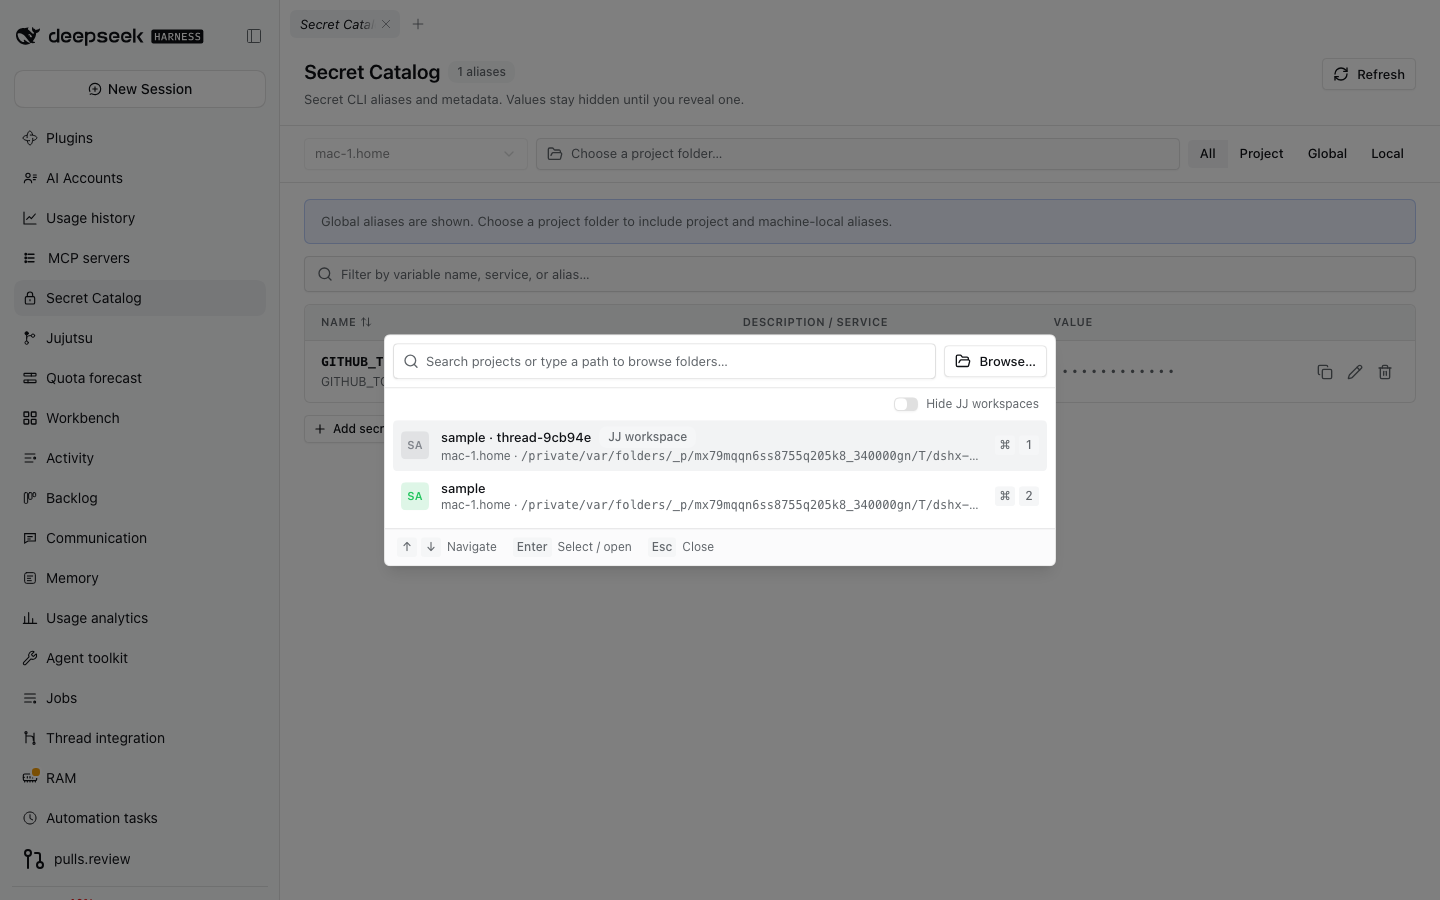
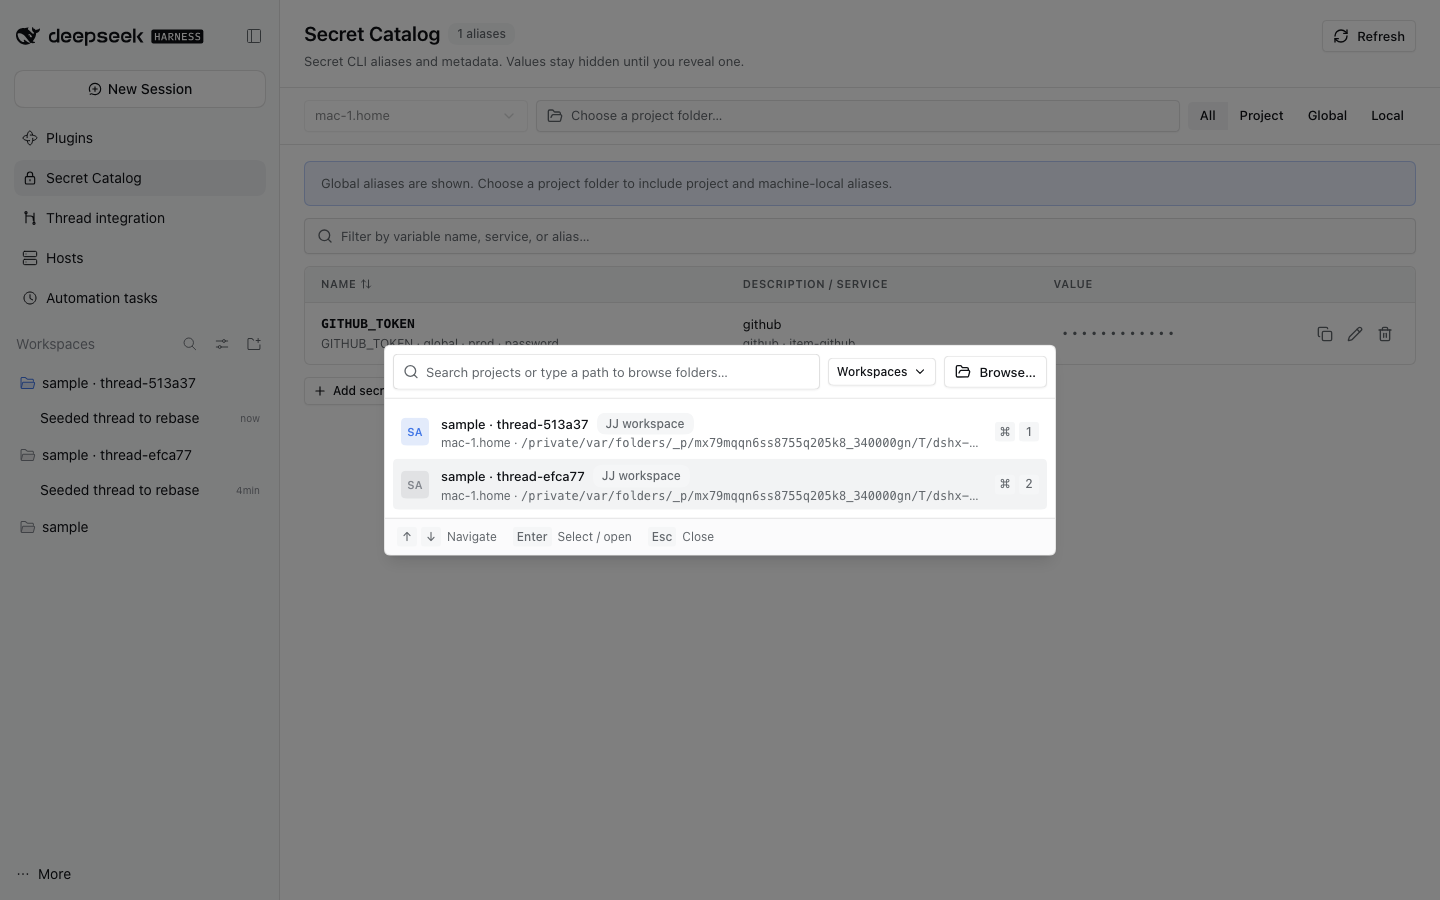
feat(project-folder-picker): compact scope and optimize result lookup
Move Everything, Projects, Recents, and Workspaces into a compact scope menu while keeping Projects as the default. Replace repeated quadratic row/path lookups with linear-time indexes. Preserve the folder-only caller's accessible dialog name by wiring its heading to the shared picker.

diff --git a/plugins/@dshfiles/project-folder-picker/src/project-folder-picker.tsx b/plugins/@dshfiles/project-folder-picker/src/project-folder-picker.tsx
@@ -2,10 +2,16 @@ import { Alert, AlertDescription } from '@dshfiles/plugin-ui/components/ui/alert
 import { Badge } from '@dshfiles/plugin-ui/components/ui/badge'
 import { Button } from '@dshfiles/plugin-ui/components/ui/button'
 import { Dialog, DialogContent, DialogDescription, DialogTitle } from '@dshfiles/plugin-ui/components/ui/dialog'
+import {
+  DropdownMenu,
+  DropdownMenuContent,
+  DropdownMenuRadioGroup,
+  DropdownMenuRadioItem,
+  DropdownMenuTrigger,
+} from '@dshfiles/plugin-ui/components/ui/dropdown-menu'
 import { Input } from '@dshfiles/plugin-ui/components/ui/input'
 import { Kbd, KbdGroup } from '@dshfiles/plugin-ui/components/ui/kbd'
-import { Tabs, TabsList, TabsTrigger } from '@dshfiles/plugin-ui/components/ui/tabs'
-import { FolderIcon, FolderOpenIcon, HistoryIcon, SearchIcon } from '@dshfiles/plugin-ui/icons'
+import { ChevronDownIcon, FolderIcon, FolderOpenIcon, HistoryIcon, SearchIcon } from '@dshfiles/plugin-ui/icons'
 import { cn } from '@dshfiles/plugin-ui/lib/utils'
 import { keepPreviousData, useMutation, useQuery } from '@dshfiles/plugin-ui/query'
 import { useCallback, useEffect, useMemo, useRef, useState, type KeyboardEvent } from 'react'
@@ -55,9 +61,9 @@ export interface ProjectFolderPickerProps {
    * caller that knows it rather than read here.
    */
   readonly machineName?: string
-  /** Recently chosen folders, newest first, for the Recents tab; a registered one shows as its project, another yields a directory selection. */
+  /** Recently chosen folders, newest first, for the Recents scope; a registered one shows as its project, another yields a directory selection. */
   readonly recentFolders?: readonly string[]
-  /** Tab shown on open; Projects by default, which leaves JJ thread workspaces to their own tab. */
+  /** Scope shown on open; Projects by default, which leaves JJ thread workspaces in their own scope. */
   readonly initialTab?: PickerTab
   /** Projects listed first on Everything and Projects, ahead of recents, under no heading. */
   readonly pinnedWorkspaceIds?: readonly string[]
@@ -122,6 +128,7 @@ export const ProjectFolderPicker = (props: ProjectFolderPickerProps): JSX.Elemen
     [props.projects, recentFolders, pinnedWorkspaceIds, query, tab],
   )
   const entries = useMemo(() => sections.flatMap(section => section.entries), [sections])
+  const entryIndices = useMemo(() => new Map(entries.map((entry, index) => [entry, index])), [entries])
   const tabs = useMemo(
     () => ProjectFolderPickerModel.availableTabs({ projects: props.projects, recentFolders, pinnedWorkspaceIds }),
     [props.projects, recentFolders, pinnedWorkspaceIds],
@@ -142,7 +149,8 @@ export const ProjectFolderPicker = (props: ProjectFolderPickerProps): JSX.Elemen
     pathMode && hasAbsolutePath && listing?.path !== absolutePath && (props.mode !== 'directories' || props.onUseAbsolutePath !== undefined)
   const showListingActions = listing !== null && (!ProjectFolderPickerModel.isPathQuery(query) || requestedPath === listing.path)
   const matchingFolderPaths = listing === null ? null : ProjectFolderPickerModel.matchingDirectoryPaths(listing, query)
-  const folderEntries = pathMode ? (listing?.entries.filter(entry => matchingFolderPaths === null || matchingFolderPaths.includes(entry.path)) ?? []) : []
+  const matchingFolderPathSet = matchingFolderPaths === null ? null : new Set(matchingFolderPaths)
+  const folderEntries = pathMode ? (listing?.entries.filter(entry => matchingFolderPathSet === null || matchingFolderPathSet.has(entry.path)) ?? []) : []
   const itemCount = pathMode ? folderEntries.length : entries.length
   const pickMutation = useMutation({
     mutationFn: () => {
@@ -346,6 +354,30 @@ export const ProjectFolderPicker = (props: ProjectFolderPickerProps): JSX.Elemen
               value={query}
             />
           </div>
+          {!pathMode && tabs.length > 2 && (
+            <DropdownMenu>
+              <DropdownMenuTrigger asChild>
+                <Button aria-label="Filter by scope" className="dshx:shrink-0" size="sm" type="button" variant="outline">
+                  {tabLabels[tab]}
+                  <ChevronDownIcon aria-hidden />
+                </Button>
+              </DropdownMenuTrigger>
+              <DropdownMenuContent align="end" className="dshx-root">
+                <DropdownMenuRadioGroup
+                  onValueChange={(value: string) => {
+                    if (ProjectFolderPickerModel.isPickerTab(value)) setTab(value)
+                  }}
+                  value={tab}
+                >
+                  {tabs.map(pickerTab => (
+                    <DropdownMenuRadioItem key={pickerTab} value={pickerTab}>
+                      {tabLabels[pickerTab]}
+                    </DropdownMenuRadioItem>
+                  ))}
+                </DropdownMenuRadioGroup>
+              </DropdownMenuContent>
+            </DropdownMenu>
+          )}
           {props.showNativePicker !== false && (
             <Button disabled={busy} onClick={() => chooseWithSystemPicker()} type="button" variant="outline">
               <FolderOpenIcon aria-hidden />
@@ -429,24 +461,6 @@ export const ProjectFolderPicker = (props: ProjectFolderPickerProps): JSX.Elemen
           </>
         ) : (
           <>
-            {tabs.length > 2 && (
-              <div className="dshx:flex dshx:items-center dshx:gap-3 dshx:px-4 dshx:pt-2">
-                <Tabs
-                  onValueChange={(value: string) => {
-                    if (ProjectFolderPickerModel.isPickerTab(value)) setTab(value)
-                  }}
-                  value={tab}
-                >
-                  <TabsList aria-label="Show" className="dshx:h-7!">
-                    {tabs.map(pickerTab => (
-                      <TabsTrigger className="dshx:px-2.5 dshx:text-xs" key={pickerTab} value={pickerTab}>
-                        {tabLabels[pickerTab]}
-                      </TabsTrigger>
-                    ))}
-                  </TabsList>
-                </Tabs>
-              </div>
-            )}
             <div aria-busy={props.loading === true} aria-label={tabLabels[tab]} className={cn(listClassName, 'dshx:pt-2')} role="listbox">
               {sections.map(section => (
                 <div aria-label={tab === 'all' ? sectionLabels[section.id] : undefined} className="dshx:contents" key={section.id} role="group">
@@ -456,7 +470,7 @@ export const ProjectFolderPicker = (props: ProjectFolderPickerProps): JSX.Elemen
                     </p>
                   )}
                   {section.entries.map(entry => {
-                    const index = entries.indexOf(entry)
+                    const index = entryIndices.get(entry) ?? 0
                     return (
                       <PickerEntryRow
                         active={index === selectedIndex}

diff --git a/plugins/@dshfiles/project-folder-picker/src/project-folder-picker-model.ts b/plugins/@dshfiles/project-folder-picker/src/project-folder-picker-model.ts
@@ -100,8 +100,8 @@ export class ProjectFolderPickerModel {
   static readonly entryPath = (entry: PickerEntry): string => (entry.kind === 'project' ? entry.project.canonicalPath : entry.path)
 
   /**
-   * The sections one tab lists. Pinned projects lead Everything and Projects. Projects exclude JJ thread workspaces,
-   * which get their own tab. Recents keep the caller's order, show a registered folder as its project and never list a
+   * The sections one scope lists. Pinned projects lead Everything and Projects. Projects exclude JJ thread workspaces,
+   * which get their own scope. Recents keep the caller's order, show a registered folder as its project and never list a
    * JJ workspace. Everything lists pinned, recents, projects, then workspaces, each folder once; empty sections are dropped.
    */
   static readonly pickerSections = (input: {
@@ -137,7 +137,7 @@ export class ProjectFolderPickerModel {
     return sections.filter(section => section.entries.length > 0)
   }
 
-  /** Tabs worth offering: Everything and Projects always, Recents and Workspaces only when they have folders. */
+  /** Scopes worth offering: Everything and Projects always, Recents and Workspaces only when they have folders. */
   static readonly availableTabs = (input: {
     readonly projects: readonly RegisteredProject[]
     readonly recentFolders: readonly string[]

diff --git a/plugins/@dshfiles/project-folder-picker/src/project-folder-picker-model.test.ts b/plugins/@dshfiles/project-folder-picker/src/project-folder-picker-model.test.ts
@@ -101,7 +101,7 @@ describe('project and folder selection', () => {
       titles: section.entries.map(entry => (entry.kind === 'project' ? entry.project.title : entry.path)),
     }))
 
-  it('keeps JJ thread workspaces off the Projects tab and lists them on their own tab', () => {
+  it('keeps JJ thread workspaces off the Projects scope and lists them in their own scope', () => {
     expect(sectionsOn('projects', 'dshfiles')).toEqual([{ id: 'projects', titles: ['dshfiles'] }])
     expect(sectionsOn('workspaces', '')).toEqual([{ id: 'workspaces', titles: ['dshfiles · thread-07ef22'] }])
   })
@@ -148,7 +148,7 @@ describe('project and folder selection', () => {
     expect(ProjectFolderPickerModel.availableTabs({ projects: allProjects, recentFolders: [threadWorkspace.canonicalPath] })).not.toContain('recents')
   })
 
-  it('offers Recents and Workspaces tabs only when they have folders', () => {
+  it('offers Recents and Workspaces scopes only when they have folders', () => {
     expect(ProjectFolderPickerModel.availableTabs({ projects, recentFolders: [] })).toEqual(['all', 'projects'])
     expect(ProjectFolderPickerModel.availableTabs({ projects: allProjects, recentFolders })).toEqual(['all', 'projects', 'recents', 'workspaces'])
   })

diff --git a/tooling/dshx/e2e/support/plugin-journeys/jj-integration.steps.ts b/tooling/dshx/e2e/support/plugin-journeys/jj-integration.steps.ts
@@ -1001,8 +1001,8 @@ Then('the New thread picker shows its Projects and JJ workspace listings for a d
   const picker = page.getByRole('dialog', { name: 'Choose a project', exact: true })
   const projects = picker.getByRole('listbox', { name: 'Projects', exact: true })
   await expect(projects.getByRole('option', { name: /^No folder/ }).first()).toBeVisible()
-  await expect(picker.getByRole('tab', { name: 'Everything', exact: true })).toBeVisible()
-  await picker.getByRole('tab', { name: 'Everything', exact: true }).click()
+  await picker.getByRole('button', { name: 'Filter by scope', exact: true }).click()
+  await page.getByRole('menuitemradio', { name: 'Everything', exact: true }).click()
   await expect(picker.getByRole('group', { name: 'JJ workspaces', exact: true })).toContainText(provisionedThreadName(page))
 })
 

diff --git a/plugins/@dshfiles/workspace-folder-picker/src/client.tsx b/plugins/@dshfiles/workspace-folder-picker/src/client.tsx
@@ -11,8 +11,7 @@ import { workspaceFolderBrowserApi } from './directory-browser-api.js'
 
 const directoryFlowSlotNames: readonly DirectoryFlowSlotName[] = ['sidebar.workspaces.directoryFlow', 'conversation.hero.workspace.directoryFlow']
 
-/** The picker's `title` names its dialog for assistive tech, not hover help: it rides a props object so the native-title rule stays about hover help. */
-const directoryFlowLabels = { title: 'Add workspace' } satisfies { readonly title: string }
+const directoryFlowLabels = { heading: 'Add workspace' } satisfies { readonly heading: string }
 
 const DirectoryFlow = (props: DirectoryFlowOwnerProps & WorkspacePickerPorts): JSX.Element | null => {
   const browserApi = useApi(workspaceFolderBrowserApi)
